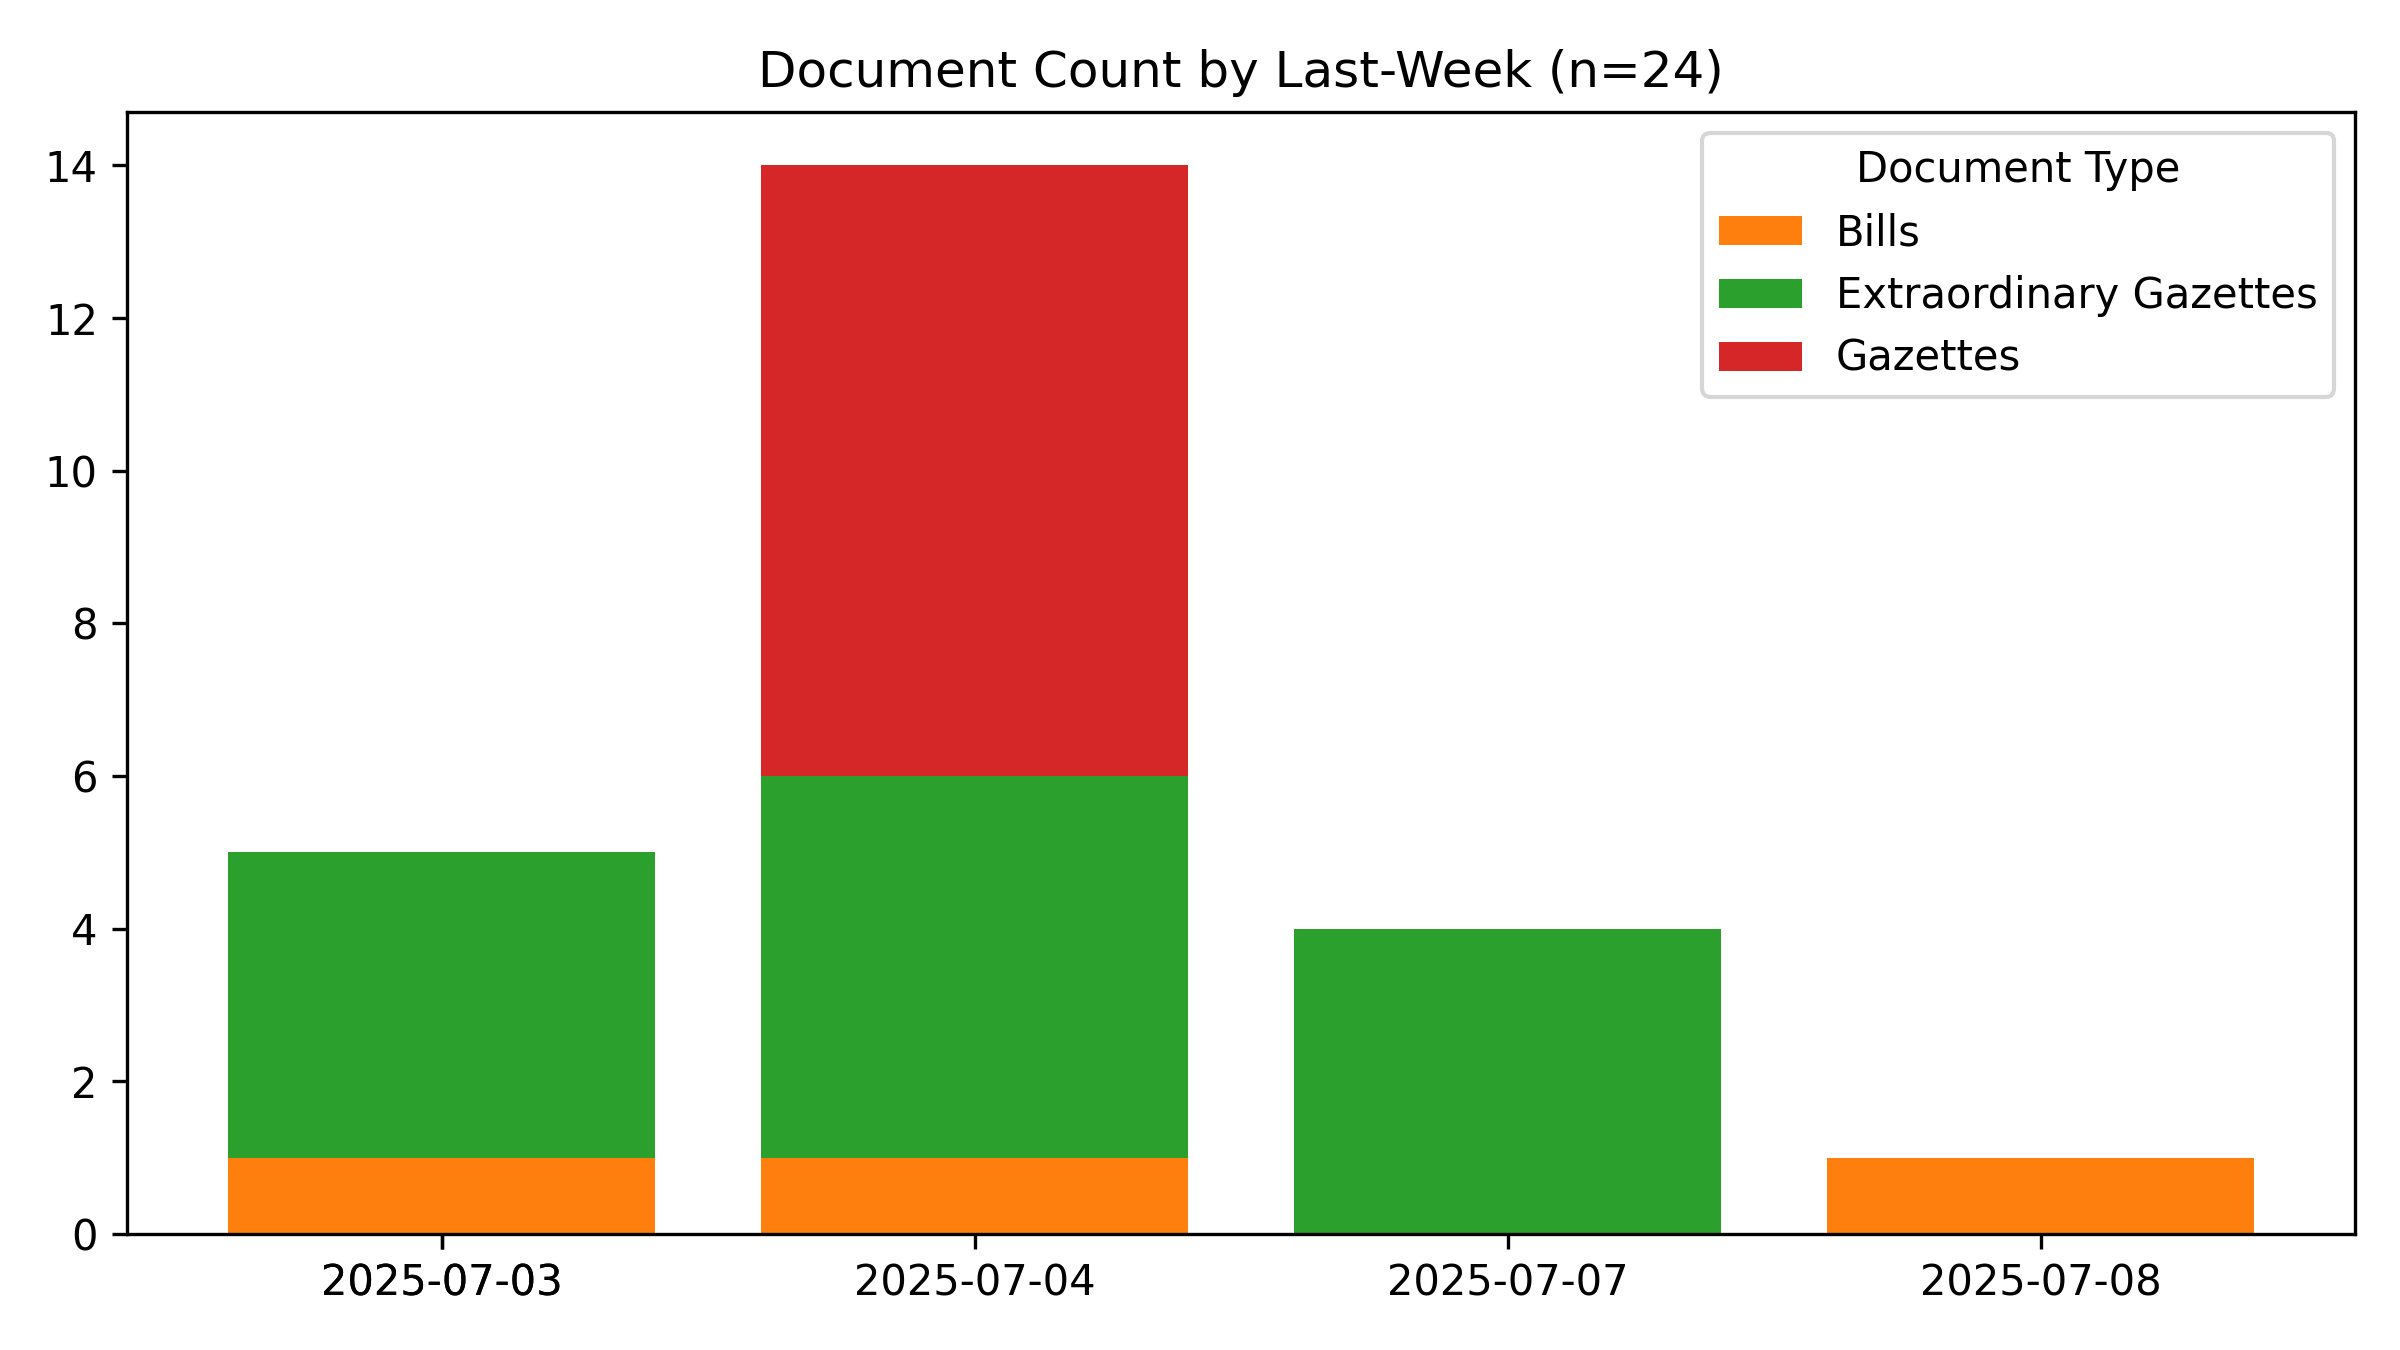
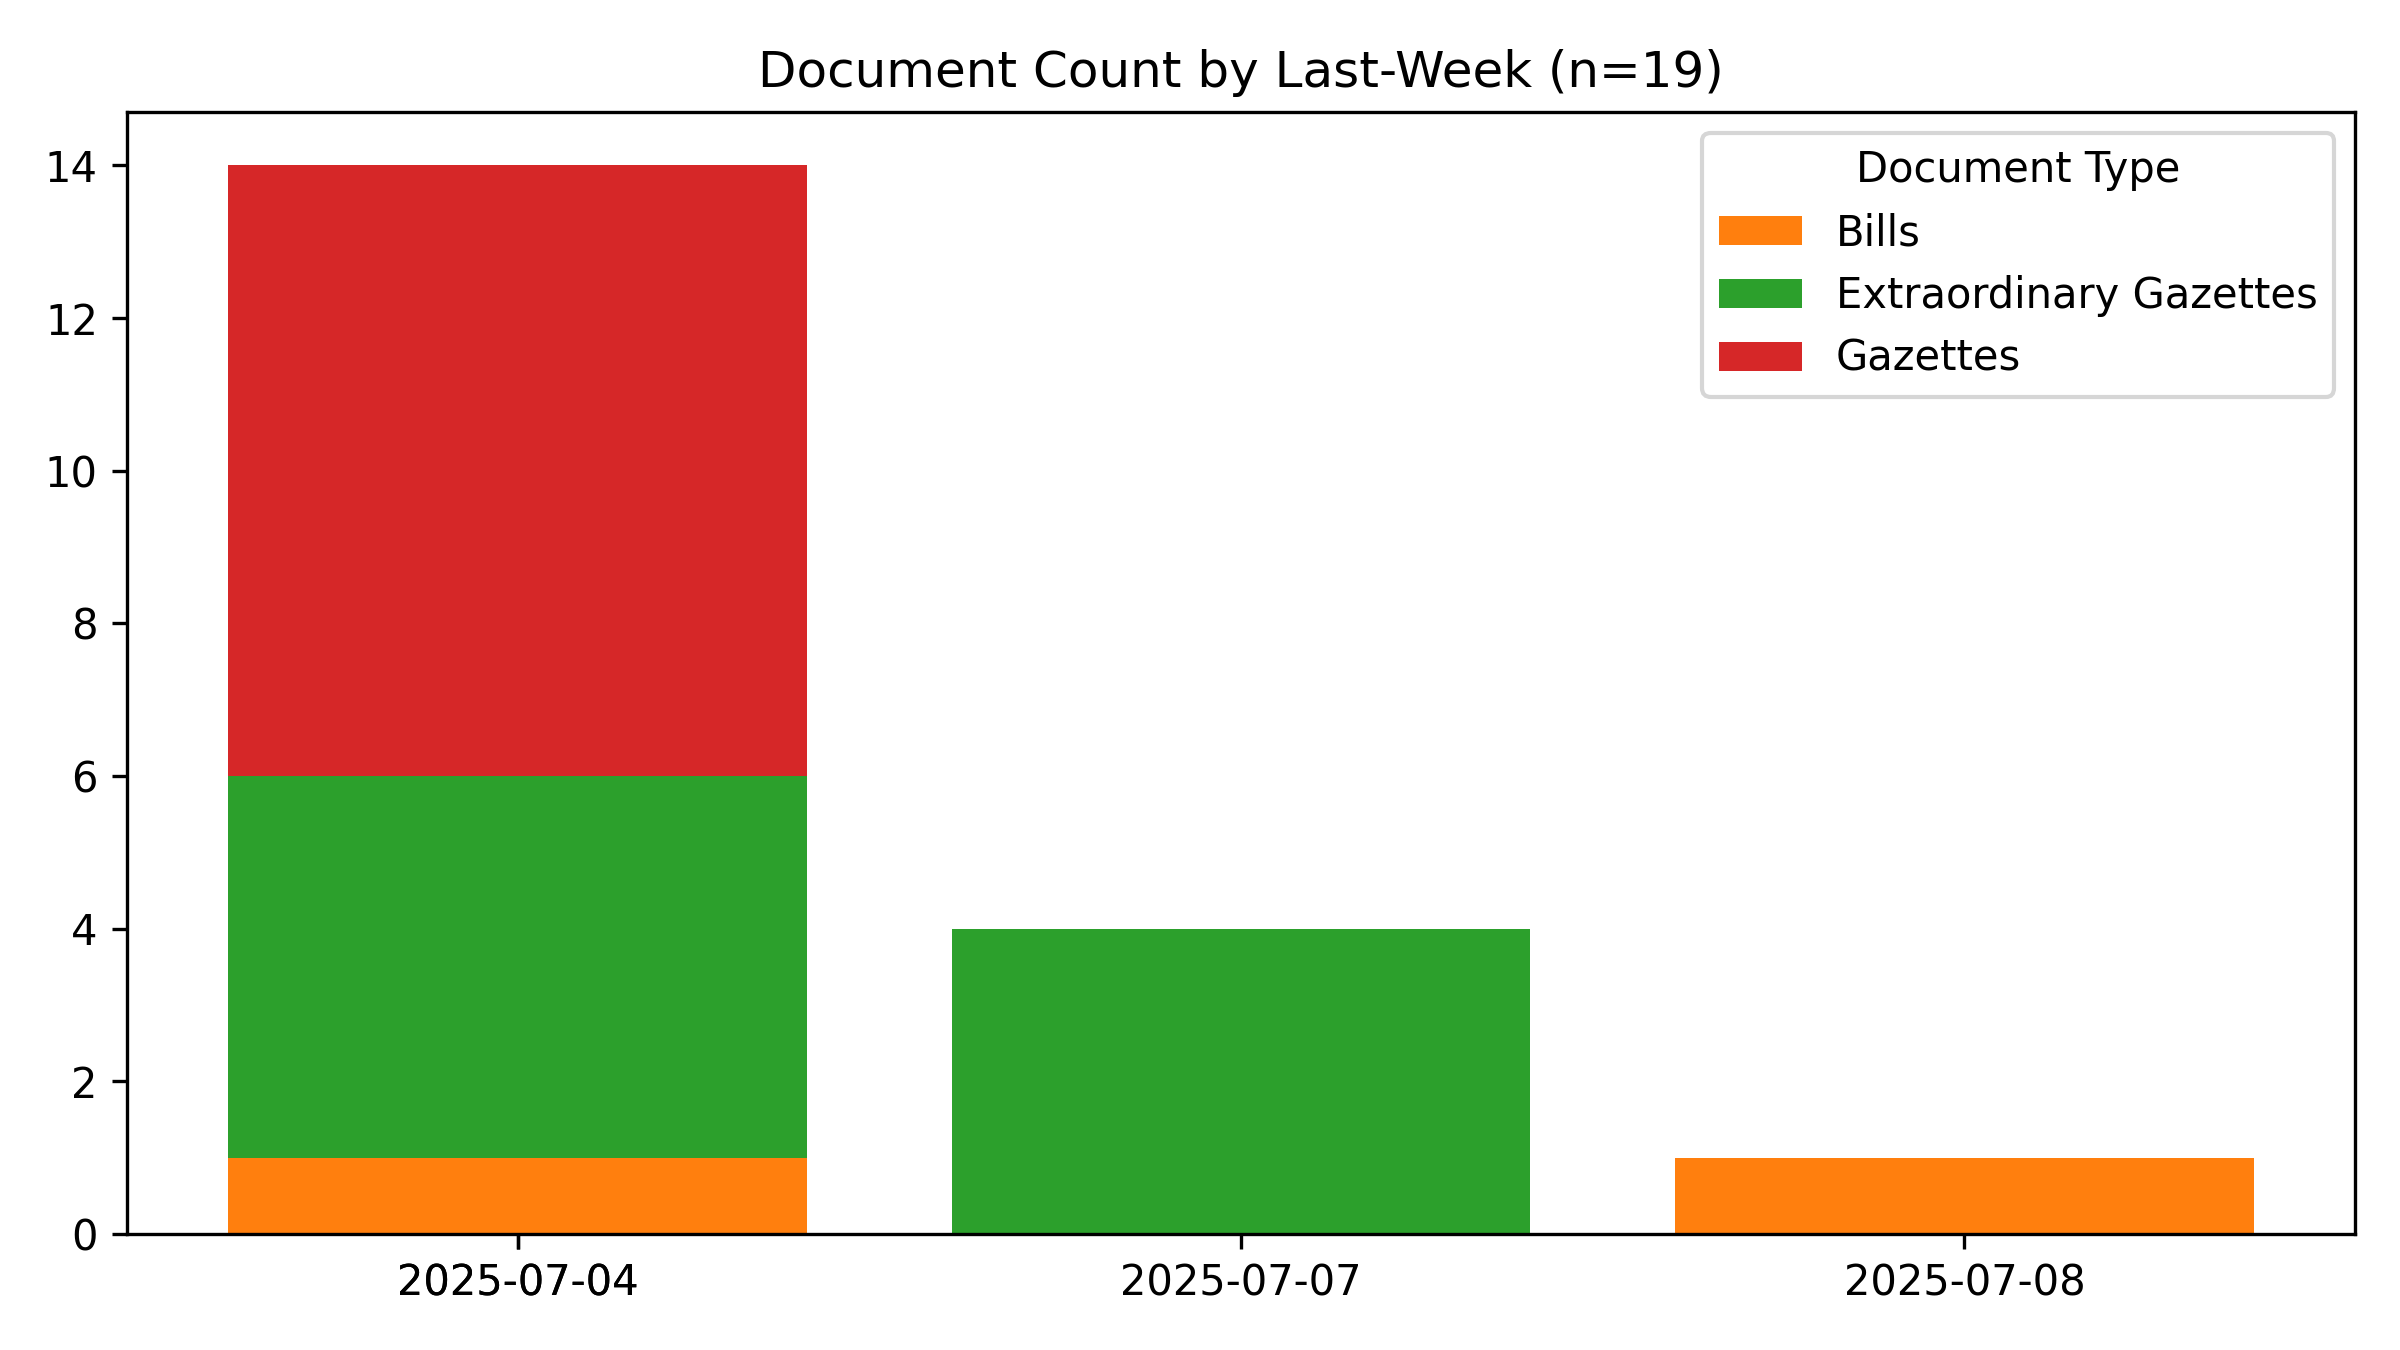
🤖 [data_scraper.yml] 2025-07-11-0005

Changed region(s): [[0.0938, 0.1244, 0.9062, 0.9644], [0.125, 0.9333, 0.2812, 0.9644], [0.6875, 0.0311, 0.7188, 0.0622]]

diff --git a/README.md b/README.md
@@ -1,6 +1,6 @@
 # #SriLanka 🇱🇰 - Legal Documents #Dataset
 
-*Last Updated **2025-07-11 05:18:52**.*
+*Last Updated **2025-07-11 05:35:34**.*
 
 **43,969** documents (40.9 MB), from 1981-01-22 to 2025-07-08.
 
@@ -16,7 +16,7 @@ A collection of 📢 Gazettes, 🚨 Extraordinary Gazettes, 🏛 Acts, ✍
 
 #Legal #OpenData #GovTech
 
-📄 Currently, 12,552 PDFs (6.7 GB) for **4,504** documents (10.2%) have been downloaded. Final data size is estimated to be ~66 GB.
+📄 Currently, 12,560 PDFs (6.7 GB) for **4,504** documents (10.2%) have been downloaded. Final data size is estimated to be ~66 GB.
 
 ## 🆕 The Legal Documents App
 
@@ -45,7 +45,7 @@ For best results, use a desktop browser.
 
 ## Recent Documents (Published during the last 7 days)
 
-**24** Documents
+**19** Documents
 
 - ✍ [2025-07-08] [Penal Code (Amendment) - GS](https://github.com/nuuuwan/lk_legal_docs_data/tree/main/data/bills/2025/618-2025)
 - 🚨 [2025-07-07] [Presidential Secretariat - Appointed Secretary to the Ministry Finance Planning and Economic Development](https://github.com/nuuuwan/lk_legal_docs_data/tree/main/data/extra-gazettes/2025/2444-09)
@@ -66,8 +66,3 @@ For best results, use a desktop browser.
 - 📢 [2025-07-04] [(IIB) - Advertising](https://github.com/nuuuwan/lk_legal_docs_data/tree/main/data/gazettes/2025/2025-07-04-iib-advertising)
 - 📢 [2025-07-04] [(IIA) - Advertising](https://github.com/nuuuwan/lk_legal_docs_data/tree/main/data/gazettes/2025/2025-07-04-iia-advertising)
 - 📢 [2025-07-04] [(I) - General](https://github.com/nuuuwan/lk_legal_docs_data/tree/main/data/gazettes/2025/2025-07-04-i-general)
-- ✍ [2025-07-03] [Mediation (Civil and Commercial Disputes) - GS](https://github.com/nuuuwan/lk_legal_docs_data/tree/main/data/bills/2025/616-2025)
-- 🚨 [2025-07-03] [Presidential Secretariat - Removal from BMICH Management Membership](https://github.com/nuuuwan/lk_legal_docs_data/tree/main/data/extra-gazettes/2025/2443-56)
-- 🚨 [2025-07-03] [Ministry of Urban Development, Construction and Housing - National Water Supply and Drainage Board Act, No 02 of1974 Order under Section 92](https://github.com/nuuuwan/lk_legal_docs_data/tree/main/data/extra-gazettes/2025/2443-53)
-- 🚨 [2025-07-03] [Department of Local Government - UVA Province - Appointed Mayor, Deputy Mayor, Chairman and Vice Chairman for 12 Local Government Institutions](https://github.com/nuuuwan/lk_legal_docs_data/tree/main/data/extra-gazettes/2025/2443-51)
-- 🚨 [2025-07-03] [Election Commission - Parliamentary Elections Act. No 01 of 1981 Filling of a Vacancy under Section 64 (5)](https://github.com/nuuuwan/lk_legal_docs_data/tree/main/data/extra-gazettes/2025/2443-50)
